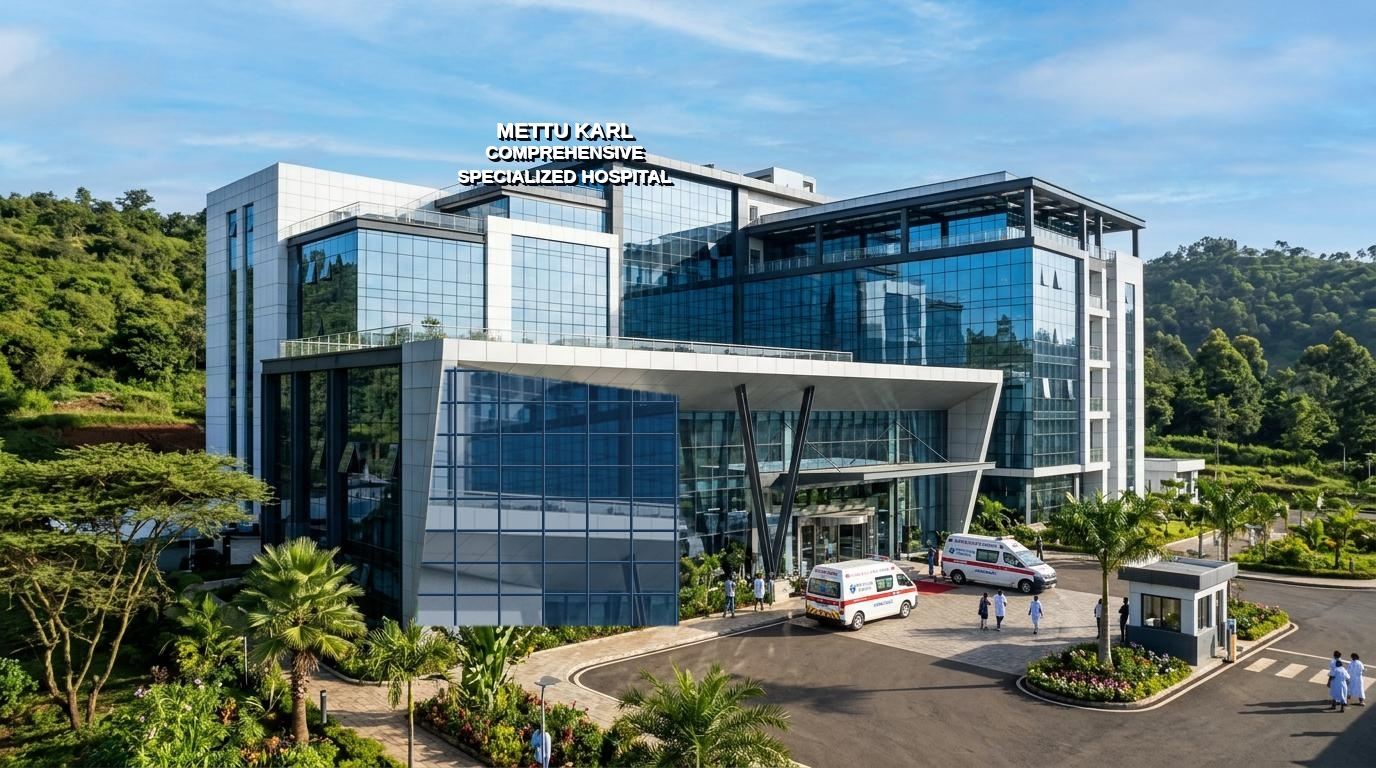
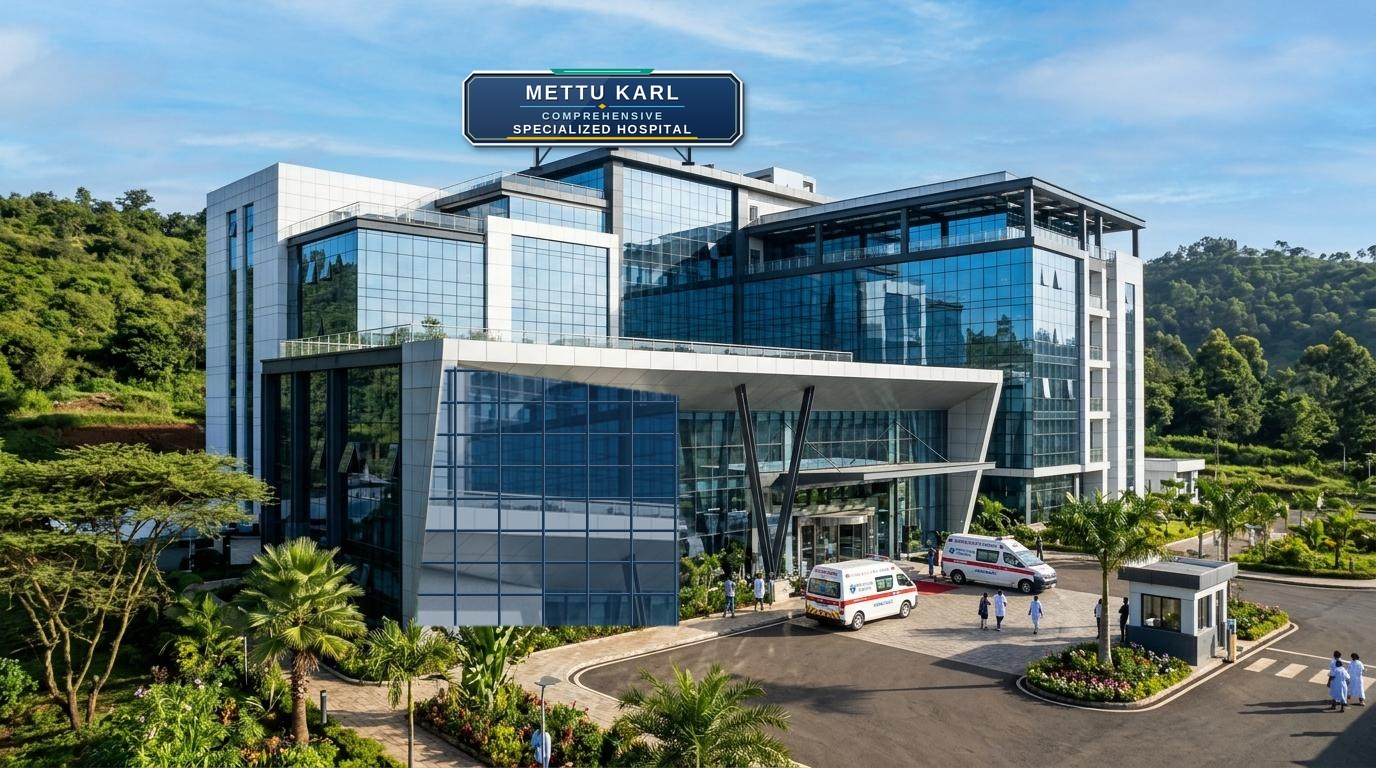
feat(ui): install modern architectural chamfered rooftop Taappellaa signboard anchored to building crown

Changed region(s): [[0.3125, 0.0625, 0.5625, 0.25]]

diff --git a/frontend/src/app/(auth)/login/page.tsx b/frontend/src/app/(auth)/login/page.tsx
@@ -791,13 +791,13 @@ export default function LoginPage() {
         <div className="absolute inset-0 w-full h-full z-0 overflow-hidden bg-slate-950 pointer-events-none">
           {/* Direct, reliable HTML image rendering with crisp-edges & zero blur */}
           <picture className="w-full h-full block">
-            <source srcSet="/hospital-building.webp?v=6" type="image/webp" />
+            <source srcSet="/hospital-building.webp?v=7" type="image/webp" />
             <img
-              src="/hospital-building.jpg?v=6"
+              src="/hospital-building.jpg?v=7"
               alt="Mettu Karl Comprehensive Specialized Hospital Building"
               loading="eager"
               decoding="sync"
-              className="w-full h-full object-cover object-[41%_26%] sm:object-[center_28%] transform scale-100"
+              className="w-full h-full object-cover object-[44%_26%] sm:object-[center_28%] transform scale-100"
               style={{
                 imageRendering: 'crisp-edges',
                 WebkitBackfaceVisibility: 'hidden',

diff --git a/frontend/src/app/globals.css b/frontend/src/app/globals.css
@@ -416,7 +416,7 @@ main {
 
 /* Hospital Building Hero Framing: Ultra-clear HD architectural display with crisp-edges */
 .hero-building-image {
-  background-image: url('/hospital-building.jpg?v=6');
+  background-image: url('/hospital-building.jpg?v=7');
   background-size: cover;
   background-repeat: no-repeat;
   background-position: center center;
